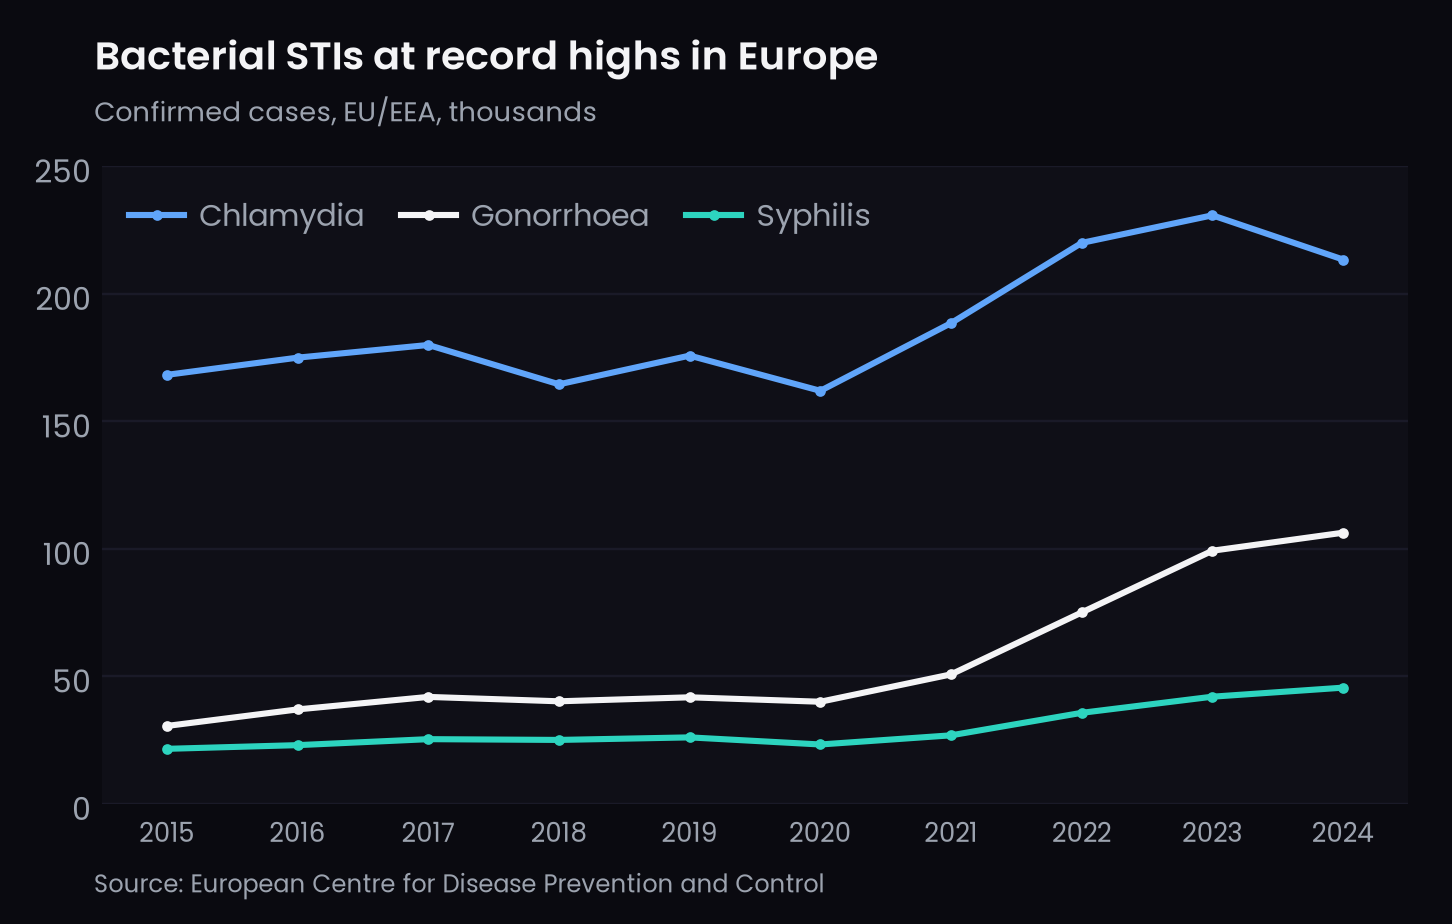
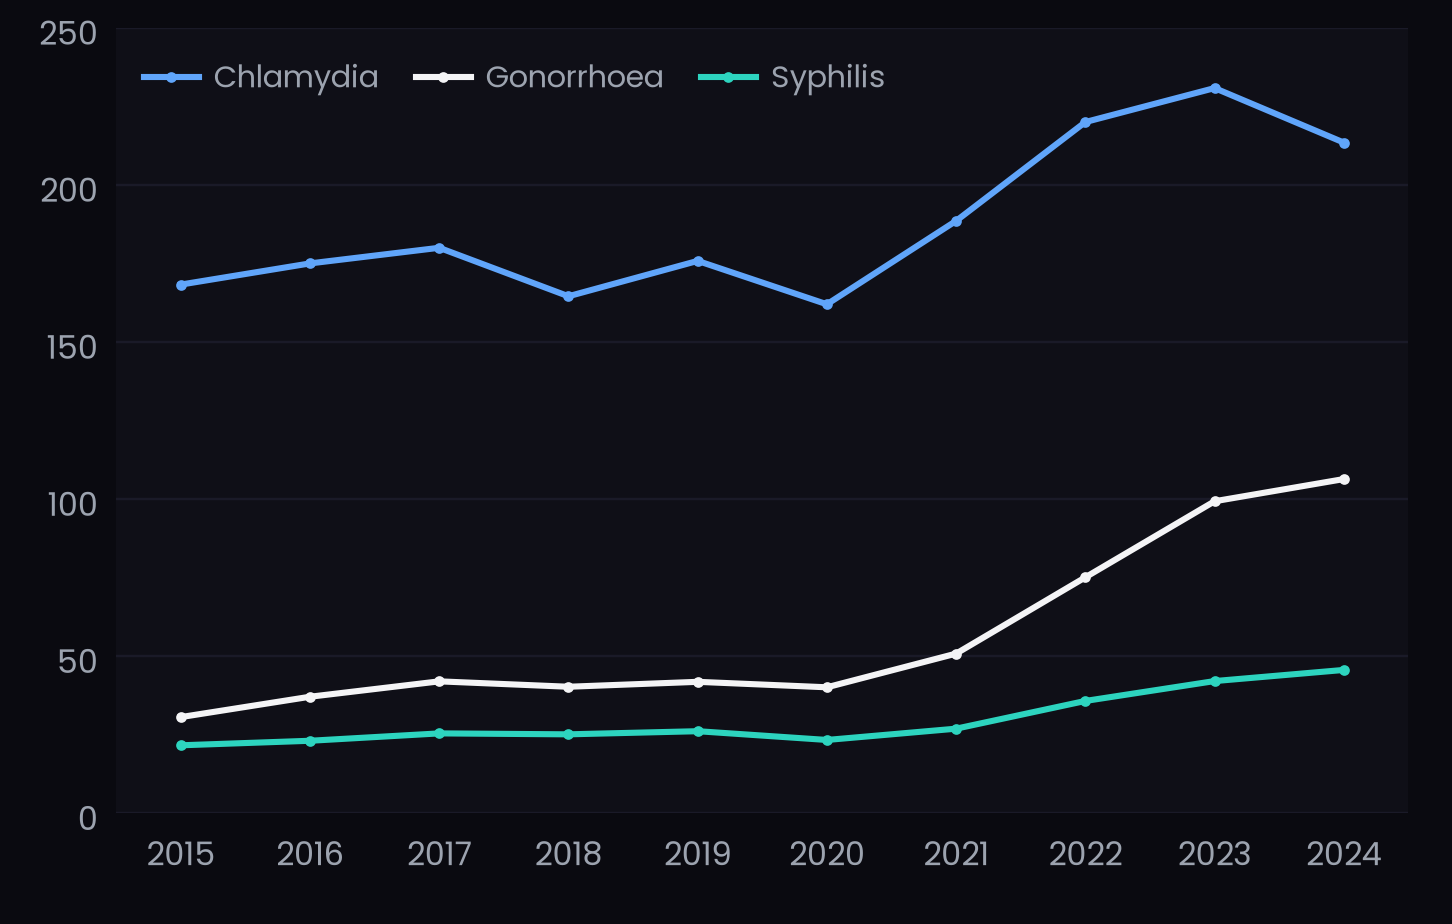
Update the charts

diff --git a/index.html b/index.html
@@ -2008,8 +2008,27 @@
       .chart-overlay-charts {
         display: grid;
         grid-template-columns: 1fr;
-        gap: 12px;
+        gap: 22px;
         margin-top: 4px;
+      }
+      .chart-card {
+        margin: 0;
+      }
+      .chart-card figcaption {
+        padding: 0 52px 8px 4px;
+      }
+      .chart-card-title {
+        margin: 0;
+        color: var(--white);
+        font-size: 1rem;
+        line-height: 1.3;
+        font-weight: 700;
+      }
+      .chart-card-subtitle {
+        margin: 3px 0 0;
+        color: var(--gray);
+        font-size: 0.8125rem;
+        line-height: 1.45;
       }
       .chart-overlay-charts img {
         width: 100%;
@@ -2019,10 +2038,20 @@
       }
       .chart-overlay-footer {
         margin-top: 14px;
-        text-align: right;
+        display: flex;
+        align-items: baseline;
+        justify-content: space-between;
+        gap: 14px;
+        color: var(--gray);
+        font-size: 0.75rem;
+        line-height: 1.45;
+      }
+      .chart-overlay-source {
+        margin: 0;
       }
       .chart-overlay-footer a {
-        font-size: 13px;
+        flex-shrink: 0;
+        font-size: inherit;
         color: var(--gray);
         text-decoration: none;
         border-bottom: 1px solid rgba(var(--fg-rgb), 0.25);
@@ -2046,7 +2075,7 @@
           flex-direction: column;
         }
         .chart-overlay-charts {
-          gap: 10px;
+          gap: 20px;
           overflow-y: auto;
           flex: 1 1 auto;
           min-height: 0;
@@ -2057,6 +2086,9 @@
           padding: 10px 0 max(16px, env(safe-area-inset-bottom));
           border-top: 1px solid rgba(var(--fg-rgb), 0.1);
           margin-top: 0;
+        }
+        .chart-card figcaption {
+          padding-left: 2px;
         }
       }
 
@@ -3272,22 +3304,35 @@
       <div class="chart-overlay-panel">
         <button class="chart-overlay-close" aria-label="Close charts">&#x2715;</button>
         <div class="chart-overlay-charts">
-          <img
-            src="visual-assets/chart-sti-general.png"
-            alt="Bacterial STIs at record highs in Europe — confirmed cases EU/EEA 2015–2024"
-            width="726" height="462"
-            loading="lazy"
-            decoding="async"
-          />
-          <img
-            src="visual-assets/chart-sti-msm.png"
-            alt="Gonorrhoea leads STI cases among MSM and is rising faster — confirmed cases EU/EEA 2015–2024"
-            width="726" height="462"
-            loading="lazy"
-            decoding="async"
-          />
+          <figure class="chart-card">
+            <figcaption>
+              <h2 class="chart-card-title">Bacterial STIs at record highs in Europe</h2>
+              <p class="chart-card-subtitle">Confirmed cases, EU/EEA, thousands</p>
+            </figcaption>
+            <img
+              src="visual-assets/chart-sti-general.png"
+              alt="Line chart of confirmed chlamydia, gonorrhoea, and syphilis cases in the EU/EEA from 2015 to 2024"
+              width="726" height="462"
+              loading="lazy"
+              decoding="async"
+            />
+          </figure>
+          <figure class="chart-card">
+            <figcaption>
+              <h2 class="chart-card-title">For MSM, gonorrhoea leads STI cases and is rising faster</h2>
+              <p class="chart-card-subtitle">Confirmed cases among men who have sex with men, EU/EEA, thousands</p>
+            </figcaption>
+            <img
+              src="visual-assets/chart-sti-msm.png"
+              alt="Line chart of confirmed chlamydia, gonorrhoea, and syphilis cases among men who have sex with men in the EU/EEA from 2015 to 2024"
+              width="726" height="462"
+              loading="lazy"
+              decoding="async"
+            />
+          </figure>
         </div>
         <div class="chart-overlay-footer">
+          <p class="chart-overlay-source">Source: European Centre for Disease Prevention and Control</p>
           <a
             href="https://www.ecdc.europa.eu/en/news-events/bacterial-stis-reach-record-highs-europe-congenital-syphilis-cases-nearly-double"
             target="_blank"

diff --git a/data/generate-charts.py b/data/generate-charts.py
@@ -12,12 +12,12 @@ Data source:
     Place them in DATA_DIR below.
 
 Fonts:
-    Poppins-Regular.ttf and Poppins-SemiBold.ttf must be present in FONT_DIR.
+    Poppins-Regular.ttf must be present in FONT_DIR.
     Download from https://fonts.google.com/specimen/Poppins (OFL licence).
 
 Usage:
     python generate-charts.py
-    Output files are written next to this script.
+    Output files are written to ../visual-assets/.
 """
 
 import os
@@ -33,12 +33,9 @@ DATA_DIR = os.path.join(HERE, 'ecdc-sti')
 FONT_DIR = os.path.join(HERE, 'fonts')
 
 FONT_REG = os.path.join(FONT_DIR, 'Poppins-Regular.ttf')
-FONT_SB  = os.path.join(FONT_DIR, 'Poppins-SemiBold.ttf')
 
 fm.fontManager.addfont(FONT_REG)
-fm.fontManager.addfont(FONT_SB)
 POPPINS    = fm.FontProperties(fname=FONT_REG)
-POPPINS_SB = fm.FontProperties(fname=FONT_SB)
 
 # ── data files ────────────────────────────────────────────────────────────────
 FILES = {
@@ -59,7 +56,6 @@ BLUE  = '#60a5fa'
 GRAY  = '#9ca3af'
 GRID  = '#1a1a28'
 
-SOURCE = 'Source: European Centre for Disease Prevention and Control'
 REGION = 'EUEEA30_21'
 YEARS  = list(range(2015, 2025))
 
@@ -87,36 +83,32 @@ def style_ax(ax, ymax=None):
     ax.set_axisbelow(True)
     for spine in ax.spines.values():
         spine.set_visible(False)
-    ax.tick_params(axis='both', which='both', length=0, colors=GRAY)
+    ax.tick_params(axis='both', which='both', length=0, colors=GRAY,
+                   labelsize=10.5, pad=6)
     ax.set_xticks(YEARS)
     ax.set_xticklabels([str(y) for y in YEARS],
-                       fontproperties=POPPINS, fontsize=8.5, color=GRAY)
+                       fontproperties=POPPINS, fontsize=10.5, color=GRAY)
     for lbl in ax.get_yticklabels():
         lbl.set_fontproperties(POPPINS)
+        lbl.set_fontsize(10.5)
         lbl.set_color(GRAY)
     ax.set_xlim(2014.5, 2024.5)
     ax.set_ylim(bottom=0, top=ymax)
     ax.set_ylabel('')
 
 
-def make_fig(title, subtitle):
+def make_fig():
     fig, ax = plt.subplots(figsize=(6.6, 4.2), dpi=220)
     fig.patch.set_facecolor(BG)
     ax.set_facecolor(BG2)
-    fig.text(0.065, 0.97, title,
-             fontproperties=POPPINS_SB, fontsize=13, color=WHITE, va='top', ha='left')
-    fig.text(0.065, 0.90, subtitle,
-             fontproperties=POPPINS, fontsize=9, color=GRAY, va='top', ha='left')
-    fig.text(0.065, 0.025, SOURCE,
-             fontproperties=POPPINS, fontsize=8, color=GRAY, va='bottom', ha='left')
     return fig, ax
 
 
 def finish(fig, ax, filename, ncol=3):
-    ax.legend(loc='upper left', frameon=False, prop=POPPINS, fontsize=9.5,
+    ax.legend(loc='upper left', frameon=False, prop=POPPINS, fontsize=11,
               labelcolor=GRAY, ncol=ncol, columnspacing=1.2,
               handlelength=1.8, handletextpad=0.5)
-    plt.subplots_adjust(left=0.07, right=0.97, top=0.82, bottom=0.13)
+    plt.subplots_adjust(left=0.08, right=0.97, top=0.97, bottom=0.12)
     out = os.path.join(HERE, '..', 'visual-assets', filename)
     fig.savefig(out, dpi=220, facecolor=BG)
     plt.close()
@@ -131,10 +123,7 @@ gon_gen = load('gon_gen')
 syp_gen = load('syp_gen')
 chl_gen = load('chl_gen')
 
-fig, ax = make_fig(
-    'Bacterial STIs at record highs in Europe',
-    'Confirmed cases, EU/EEA, thousands',
-)
+fig, ax = make_fig()
 ax.plot(YEARS, vals(chl_gen), color=BLUE,  marker='o', label='Chlamydia',  **LW)
 ax.plot(YEARS, vals(gon_gen), color=WHITE, marker='o', label='Gonorrhoea', **LW)
 ax.plot(YEARS, vals(syp_gen), color=TEAL,  marker='o', label='Syphilis',   **LW)
@@ -150,10 +139,7 @@ chl_msm = load('chl_msm')
 chl_years = [y for y in YEARS if chl_msm.get(y) is not None]
 chl_vals  = [chl_msm[y] for y in chl_years]
 
-fig, ax = make_fig(
-    'Gonorrhoea leads STI cases among MSM and is rising faster',
-    'Confirmed cases among men who have sex with men, EU/EEA, thousands',
-)
+fig, ax = make_fig()
 ax.plot(chl_years, chl_vals,      color=BLUE,  marker='o', label='Chlamydia',  **LW)
 ax.plot(YEARS,     vals(gon_msm), color=WHITE, marker='o', label='Gonorrhoea', **LW)
 ax.plot(YEARS,     vals(syp_msm), color=TEAL,  marker='o', label='Syphilis',   **LW)
@@ -161,6 +147,6 @@ style_ax(ax, ymax=35)
 ax.annotate('data from 2020',
             xy=(2020, chl_msm[2020]),
             xytext=(2017.8, 5),
-            fontproperties=POPPINS, fontsize=7.5, color=GRAY,
-            arrowprops=dict(arrowstyle='-', color=GRAY, lw=0.8))
+            fontproperties=POPPINS, fontsize=10, color=GRAY,
+            arrowprops=dict(arrowstyle='-', color=GRAY, lw=1))
 finish(fig, ax, 'chart-sti-msm.png')
